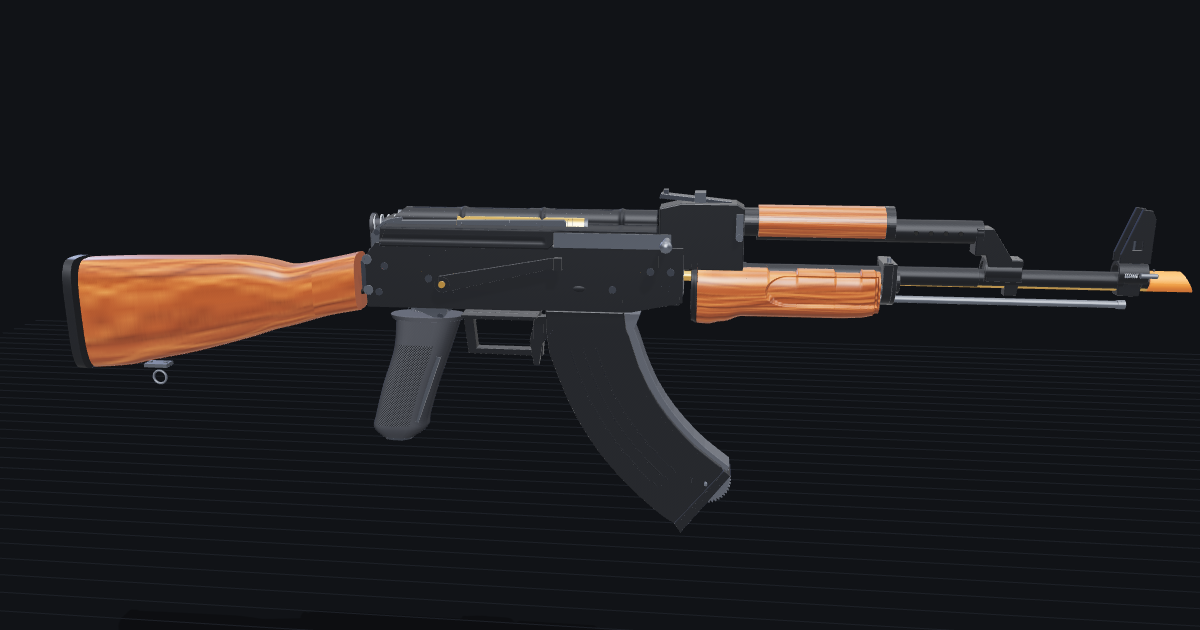
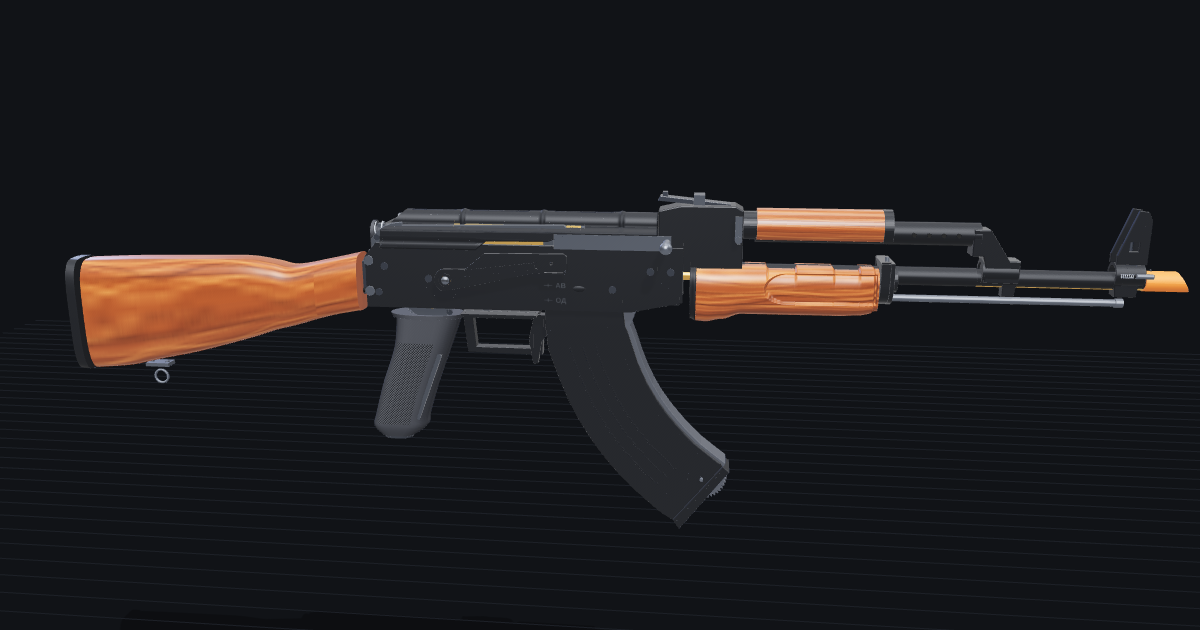
Selector: trace AKM lever outline, cut dust cover skirt to it, stamp marks
Lever outline traced from the Taiwangun CM048M right-side close-up: round
pivot end, humped top edge, front tab with finger hole and folded finger
lip, raised pad along the arm, domed slotted screw. The dust cover's right
skirt now follows the lever top edge. Stamped АВ/ОД marks on the receiver.

diff --git a/cm048m/index.html b/cm048m/index.html
@@ -174,6 +174,7 @@ const MAT = {
   checker: { color: 0x2b2d31, metalness: 0.0, roughness: 0.95 },
   wood:   { color: 0xffffff, metalness: 0.0,  roughness: 0.34 },
   blk:    { color: 0x26282c, metalness: 0.55, roughness: 0.45 },
+  stamp:  { color: 0xffffff, metalness: 0.3,  roughness: 0.7 },
   green:  { color: 0x3d8a3a, metalness: 0.0,  roughness: 0.6 },
   fiber:  { color: 0x3fd24a, metalness: 0.0,  roughness: 0.3, emissive: 0x0d3a10 },
 };
@@ -337,6 +338,18 @@ function slots(xs, y0, y1, zs, w = 3.4, lean = -0.3) {
   return out;
 }
 // lacquered birch-ply wood grain (canvas), grain runs along u
+// selector marks stamped in the right receiver wall under the lever tab: a short line with a cross tick, then АВ / ОД
+const STAMP = (() => {
+  const c = document.createElement('canvas'); c.width = 320; c.height = 320;
+  const g = c.getContext('2d'); g.strokeStyle = g.fillStyle = 'rgba(110,115,125,0.38)'; g.lineWidth = 7;
+  g.font = 'bold 76px sans-serif'; g.textBaseline = 'middle';
+  for (const [y, t] of [[90, 'АВ'], [245, 'ОД']]) {
+    g.beginPath(); g.moveTo(20, y); g.lineTo(110, y); g.moveTo(65, y - 22); g.lineTo(65, y + 22); g.stroke();
+    g.fillText(t, 140, y + 4);
+  }
+  const t = new THREE.CanvasTexture(c); t.colorSpace = THREE.SRGBColorSpace; t.anisotropy = 4;
+  return t;
+})();
 const WOOD = (() => {
   const c = document.createElement('canvas'); c.width = 512; c.height = 128;
   const x = c.getContext('2d'); x.fillStyle = '#7b3a15'; x.fillRect(0, 0, 512, 128);
@@ -448,6 +461,7 @@ function part(id, name, cat, nos, explode, info, pieces, opts = {}) {
     const mat = new THREE.MeshStandardMaterial({ ...MAT[matKey], side: THREE.DoubleSide });
     if (matKey === 'checker') { mat.bumpMap = CHECKER; mat.bumpScale = 2.5; }
     if (matKey === 'wood') { mat.map = WOOD; }
+    if (matKey === 'stamp') { mat.map = STAMP; mat.transparent = true; mat.depthWrite = false; mat.polygonOffset = true; mat.polygonOffsetFactor = -2; }
     const m = new THREE.Mesh(geo, mat);
     m.castShadow = true; m.receiveShadow = true;
     m.userData.part = grp; m.userData.baseEmissive = mat.emissive.getHex();
@@ -619,6 +633,7 @@ part('receiver', 'Receiver (gun body)', 'rcv', ['1'], [0, 0, 0],
    [bx(X(553), X(496), Y(135), Y(132), -RZ, RZ), 'blk'],
    ...[1, -1].map(s => [bx(X(794), X(521), Y(79), Y(77), s * (RZ - mm(4)), s * RZ), 'blk']),
    ...[1, -1].map(s => [at(new THREE.SphereGeometry(mm(4), 16, 8).scale(1.6, 0.8, 0.35), X(597), Y(120), s * RZ), 'blk']),
+   [at(new THREE.PlaneGeometry(mm(26), mm(26)), X(619), Y(124), RZ + mm(0.6) + 0.45), 'stamp'],
    ...RIVETS.flatMap(([a, b]) => [1, -1].map(s => [cyl(mm(3.2), mm(1.4), 'z', X(a), Y(b), s * (RZ + mm(0.6)), 12), 'dark']))], { shell: true });
 part('frontTrunnion', 'Gun body connector (front trunnion)', 'rcv', ['5', '51', '52'], [40, -10, -170],
   'Front trunnion (5): receives the outer barrel and houses the hop-up chamber; the magazine front lug hooks into it. Shaft 51 (7x30) and screw 52 tie it in. Real AKM trunnion block is 65mm long, flush with the receiver front.',
@@ -627,6 +642,9 @@ part('frontTrunnion', 'Gun body connector (front trunnion)', 'rcv', ['5', '51', 
 part('rearTrunnion', 'Gun stock connector (rear trunnion)', 'rcv', ['6'], [-40, -10, -170],
   'Rear trunnion (6): the stock tang slots into it and the gearbox rear seats against it.',
   [[bx(X(816), X(797), Y(146), Y(86), -RZ + mm(1.3), RZ - mm(1.3)), 'dark'], [bx(X(830), X(818), Y(135), Y(100), -mm(10), mm(10)), 'dark']], { shell: true });
+// selector lever pivot (photo px) and its top edge (photo py) along the arm; the dust cover's right skirt is cut to it
+const SEL_C = [731.5, 112], SEL_R = 11.5;
+const selTop = px => px >= 707 ? 97.2 + (px - 707) * 0.7 : px >= 691 ? 83.8 + (px - 691) * 13.4 / 16 : 82.8 + (px - 615) / 76;
 // AKM stamped dust cover: sheet (outer + inner skin) swept along x. Section from the end-on photos (K-Var Arsenal cover):
 // half-round crown over the recoil spring, flared shoulders, straight skirts. Skirt heights, ribs, flutes and the raked rear
 // traced from the CM048M side photo (left) and the RedWolf right-side close-up.
@@ -636,7 +654,10 @@ function akmCover() {
   const bump = (px, a, b, e) => ramp(px, a, a + e) * (1 - ramp(px, b - e, b));
   // skirt bottom depth per side (0 = top), by photo px
   const botL = px => H - mm(6) * (1 - ramp(px, 565, 587));
-  const botR = px => H - (H * 0.45) * (1 - ramp(px, 610, 628));
+  const botR = px => {      // right skirt: cut along the selector lever's top edge, then the cocking lever notch
+    const lv = Math.min(H, selTop(px) + 1.2 - 56);
+    return lv - (lv - 0.55 * H) * (1 - ramp(px, 610, 628));
+  };
   const rib = px => [555, 635, 717].reduce((a, r) => a + mm(1) * Math.exp(-(((px - r) / 2.3) ** 2)), 0);
   const flute = (px, u, a, b) => (u > 0.45 && u < 0.72) ? -mm(0.7) * bump(px, a, b, 4) * Math.sin((u - 0.45) / 0.27 * Math.PI) : 0;
   // short grooves along the crown top, one per bay between the ribs (K-Var and Apex side views)
@@ -713,12 +734,34 @@ part('cockLever', 'Cocking lever (charging handle)', 'rcv', ['59'], [0, 120, 60]
   [[bx(X(622), X(505), Y(88), Y(73), RZ - mm(3.5), RZ - mm(1.8)), 'steel'],
    [cyl(mm(3.5), mm(22), 'z', X(509), Y(80), RZ + mm(9), 14), 'steel'],
    [new THREE.SphereGeometry(mm(5.2), 16, 12).translate(X(509), Y(80), RZ + mm(21)), 'steel']]);
+// AKM safety/selector lever, traced from the CYMA right-side close-ups (Taiwangun, RedWolf) and real AKM photos.
+// Stamped plate: round pivot end at the rear, tapering arm, raised front tab with the finger hole; the top edge
+// closes the cut in the dust cover's right skirt when the lever is up (safe).
+function selectorLever() {
+  // outline traced from the Taiwangun CM048M right-side close-up; hump in the top edge as on the VFC and real AKM levers
+  const [cx, cy] = SEL_C, arc = [];
+  for (let i = 0; i <= 30; i++) { const a = (80 - 175 * i / 30) * Math.PI / 180; arc.push([cx + SEL_R * Math.cos(a), cy + SEL_R * Math.sin(a)]); }
+  const out = [...arc, [711, 100.4], [707, 97.2], [691, 83.8], [611, 82.8], [607.8, 85.4], [607.8, 100.2], [610.5, 103.3], [640, 102.6]];
+  const hole = Array.from({ length: 14 }, (_, i) => [623.3 + 1.8 * Math.cos(i / 14 * 2 * Math.PI), 92.4 + 1.8 * Math.sin(i / 14 * 2 * Math.PI)]);
+  return prof(P(out), mm(1.6), 0.25, [P(hole)]);
+}
+// raised stamped pad along the arm: a stadium between two photo points
+function selectorRib(a, b, r) {
+  const [ax, ay] = a, [bx_, by] = b, ang = Math.atan2(by - ay, bx_ - ax), pts = [];
+  for (let i = 0; i <= 12; i++) { const t = ang + Math.PI / 2 + Math.PI * i / 12; pts.push([bx_ + r * Math.cos(t), by + r * Math.sin(t)]); }
+  for (let i = 0; i <= 12; i++) { const t = ang - Math.PI / 2 + Math.PI * i / 12; pts.push([ax + r * Math.cos(t), ay + r * Math.sin(t)]); }
+  return prof(P(pts), mm(0.6), 0.3);
+}
 part('selector', 'Semi/auto selector + copper bushing, spring, located slice', 'rcv', ['11', '10', '12', '9'], [0, 0, 110],
-  'AK selector lever (11) on the right side. Top = safe (also covers the ejection port), middle = AB (full auto), bottom = OД (semi). Pivots on bushing 10; spring 12 and detent plate 9 give the click positions. The manual warns not to switch semi to full with the trigger held.',
-  [[at(prof(P([[738, 108], [622, 87], [613, 87], [613, 97], [626, 98], [738, 125]]), mm(1.5), 0.3), 0, 0, RZ + mm(2.4)), 'blk'],
-   [cyl(mm(6.5), mm(2.6), 'z', X(735), Y(116), RZ + mm(2.2), 24), 'blk'],
-   [cyl(mm(3), mm(3.5), 'z', X(735), Y(116), RZ + mm(3), 14), 'brass'],
-   [bx(X(620), X(612), Y(98), Y(86), RZ + mm(2), RZ + mm(7)), 'blk']]);
+  'AK selector lever (11) on the right side, shown on safe. Top = safe (its top edge closes the cut in the dust cover skirt and blocks the cocking lever), middle = АВ (full auto), bottom = ОД (semi); the marks are stamped on the receiver under the front tab. Stamped plate with a round pivot end, tapering arm and a front finger tab. Pivots on bushing 10 under a domed screw; spring 12 and detent plate 9 give the click positions. The manual warns not to switch semi to full with the trigger held. Owners report the lever screw working loose.',
+  [[at(selectorLever(), 0, 0, RZ + mm(2.3)), 'blk'],
+   // finger tab: the lower front edge folded outward
+   [at(prof(P([[630, 101.4], [611, 101.4], [608.4, 99], [608.4, 100.4], [610.8, 103.2], [630, 102.7]]), mm(3.2), 0.2), 0, 0, RZ + mm(4.2)), 'blk'],
+   [at(selectorRib([712, 104.5], [637, 95], 3.4), 0, 0, RZ + mm(3.1)), 'blk'],
+   [cyl(mm(5.6), mm(1), 'z', X(SEL_C[0]), Y(SEL_C[1]), RZ + mm(3.6), 28), 'blk'],
+   [at(new THREE.SphereGeometry(mm(3.6), 20, 10, 0, Math.PI * 2, 0, Math.PI / 2).rotateX(Math.PI / 2).scale(1, 1, 0.45), X(SEL_C[0]), Y(SEL_C[1]), RZ + mm(4.1)), 'steel'],
+   [bx(X(SEL_C[0]) - mm(3), X(SEL_C[0]) + mm(3), Y(SEL_C[1]) - mm(0.35), Y(SEL_C[1]) + mm(0.35), RZ + mm(4.6), RZ + mm(5.8)), 'black'],
+   [cyl(mm(4.2), mm(1.6), 'z', X(SEL_C[0]), Y(SEL_C[1]), RZ + mm(1.3), 20), 'brass']]);
 part('sideRail', 'Side rail (optics mount)', 'rcv', ['2'], [0, 0, -110],
   'Dovetail side mount (2) on the left of the receiver, for AK side-mount optics.',
   [[at(prof(P([[612, 103], [760, 103], [760, 127], [612, 127]]), mm(3), 0.6), 0, 0, -RZ - mm(1.8)), 'blk'],
@@ -970,6 +1013,7 @@ const SOURCES = `<p class="src">Sources: CYMA CM.048 / CM.048M manual (exploded 
 <a href="https://airsoftstation.com/cyma-cm048m-ak47-full-metal-real-wood-airsoft-rifle/">Airsoft Station</a> (side photo used for tracing),
 <a href="https://robertforbus.com/ak-part-drawings/akm-receiver/">Robert Forbus AKM drawings</a>,
 <a href="https://get.vegaforce.com/downloads/AKM_AKMS_PARTS_LIST.pdf">VFC AKM/AKMS parts list</a> (the gun CYMA copies; AKM-xx cross-reference),
+selector lever shape from <a href="https://www.apexgunparts.com/">Apex Gun Parts</a> AKM levers and the <a href="https://www.ehobbyasia.com/">ehobbyasia</a> VFC #03-48 lever photos,
 <a href="http://airsofttech.dk/Guides.cshtml?Page=GearboxV3_Page1">airsofttech.dk V3 guide</a>,
 <a href="https://www.polarstarairsoft.com/">Polarstar Kythera manual</a>. Shapes and positions are approximate, traced from product photos, not measured.</p>`;
 function showOverview() {
